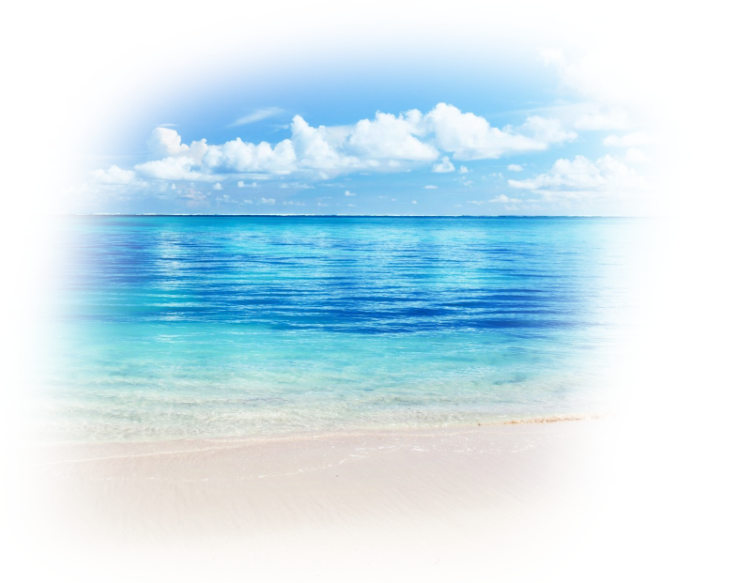
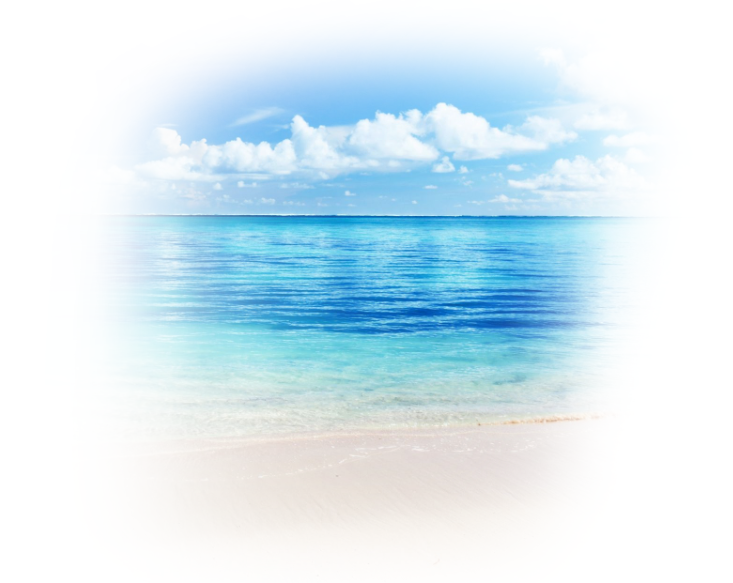
Main images

Changed region(s): [[0.06, 0.1544, 0.4202, 0.8954]]

diff --git a/ParallaxLike/App.js b/ParallaxLike/App.js
@@ -22,7 +22,7 @@ export default class App extends Component {
                 width: 300,
                 height: 300,
               }}
-              source = { require('./assets/beach.jpg') } />
+              source = { require('./assets/beach.png') } />
 
             <Text>Beach</Text>
           </View>
@@ -40,7 +40,7 @@ export default class App extends Component {
                 width: 300,
                 height: 300,
               }}
-              source = { require('./assets/mountain.jpg') } />
+              source = { require('./assets/mountain.png') } />
             <Text>Mountain</Text>
           </View>
 
@@ -57,7 +57,7 @@ export default class App extends Component {
               width: 300,
               height: 300,
             }}
-            source = { require('./assets/forest2.jpg') } />
+            source = { require('./assets/forest.png') } />
             <Text>Forest</Text>
           </View>
         </IndicatorViewPager>
